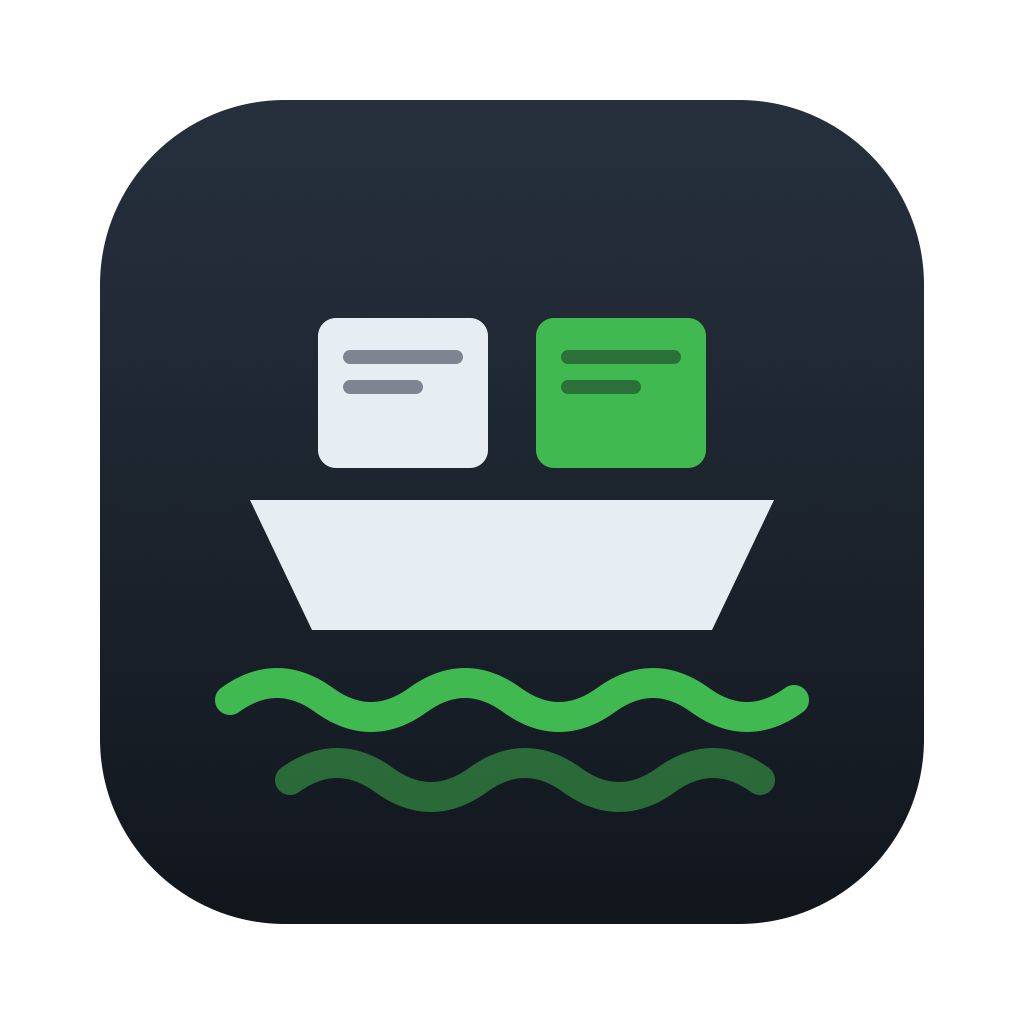
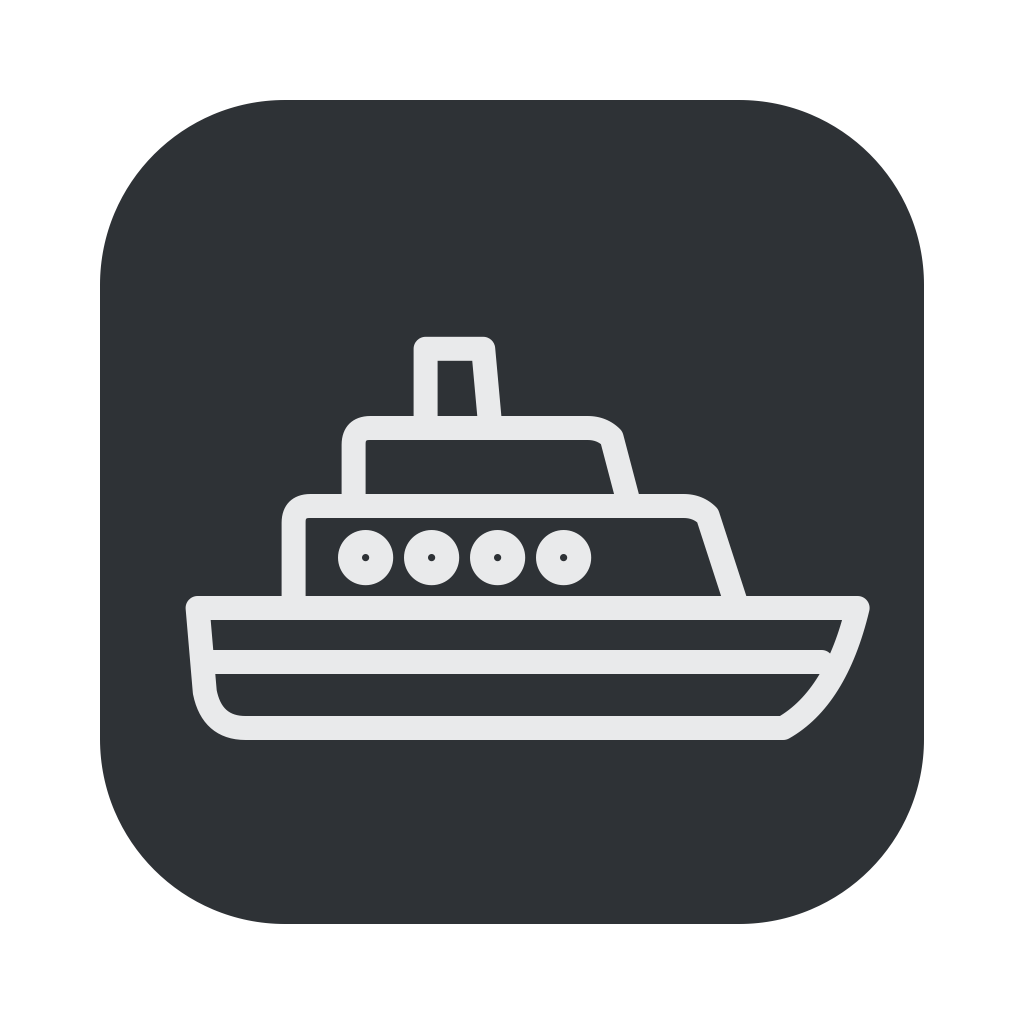
Hilfe-Menü mit Anleitungsfenster (EN/DE), App-Symbol F03

Changed region(s): [[0.0938, 0.3125, 0.9062, 0.9062]]

diff --git a/src/app.rs b/src/app.rs
@@ -12,9 +12,12 @@ use std::time::Duration;
 
 slint::include_modules!();
 
-/// (Code, Name in der eigenen Sprache, Tausendertrennzeichen)
-/// Neue Sprache: hier eintragen und translations/<code>/LC_MESSAGES/mediafiles-ferry.po anlegen.
-const LANGUAGES: [(&str, &str, char); 2] = [("en", "English", ','), ("de", "Deutsch", '.')];
+/// (Code, Name in der eigenen Sprache, Tausendertrennzeichen, Anleitung)
+/// Neue Sprache: hier eintragen, translations/<code>/LC_MESSAGES/mediafiles-ferry.po und docs/help/<code>.md anlegen.
+const LANGUAGES: [(&str, &str, char, &str); 2] = [
+    ("en", "English", ',', include_str!("../docs/help/en.md")),
+    ("de", "Deutsch", '.', include_str!("../docs/help/de.md")),
+];
 
 // Zeichenzahlen passend zur festen Fensterbreite (Metrics.window-width in ui/app.slint)
 const NAME_CHARS: usize = 20;
@@ -96,6 +99,46 @@ fn refresh(app: &AppWindow, lang: &str) {
     app.set_minutes_since_scan(minutes_since_scan());
 }
 
+/// Zerlegt die Anleitung in Blöcke: "# " = Untertitel, "## " = Abschnittsüberschrift, jeder Absatz ein eigener Block
+/// (StyledText kennt keine Überschriften und keinen Absatzabstand). Backticks fallen weg, damit alles in der App-Schrift bleibt.
+fn help_blocks(markdown: &str) -> (String, Vec<HelpBlock>) {
+    let mut subtitle = String::new();
+    let mut blocks = vec![];
+    let mut paragraph = String::new();
+    let flush = |paragraph: &mut String, blocks: &mut Vec<HelpBlock>| {
+        // "<Ordner>" wäre sonst ein HTML-Tag
+        let text = paragraph.trim().replace('`', "").replace('<', "‹").replace('>', "›");
+        if !text.is_empty() {
+            let body = slint::StyledText::from_markdown(&text).unwrap_or_else(|_| slint::StyledText::from_plain_text(&text));
+            blocks.push(HelpBlock { heading: "".into(), body });
+        }
+        paragraph.clear();
+    };
+    for line in markdown.lines() {
+        if let Some(t) = line.strip_prefix("# ") {
+            subtitle = t.to_uppercase();
+        } else if let Some(h) = line.strip_prefix("## ") {
+            flush(&mut paragraph, &mut blocks);
+            blocks.push(HelpBlock { heading: h.into(), body: Default::default() });
+        } else if line.trim().is_empty() {
+            flush(&mut paragraph, &mut blocks);
+        } else {
+            paragraph.push_str(line);
+            paragraph.push('\n');
+        }
+    }
+    flush(&mut paragraph, &mut blocks);
+    (subtitle, blocks)
+}
+
+fn update_help(help: &HelpWindow, s: &Settings) {
+    let markdown = LANGUAGES.iter().find(|l| l.0 == s.language).unwrap_or(&LANGUAGES[0]).3;
+    let (subtitle, blocks) = help_blocks(markdown);
+    help.set_subtitle(subtitle.into());
+    help.set_blocks(ModelRc::new(VecModel::from(blocks)));
+    help.set_dark(s.dark);
+}
+
 fn current_language(app: &AppWindow) -> String {
     app.get_language().to_string()
 }
@@ -117,13 +160,31 @@ fn main() -> Result<(), slint::PlatformError> {
     set_menus(&app, &settings);
     refresh(&app, &settings.language);
     let settings = Rc::new(RefCell::new(settings));
+    let help: Rc<RefCell<Option<HelpWindow>>> = Rc::default();
+
+    app.on_show_help({
+        let (settings, help) = (settings.clone(), help.clone());
+        move || {
+            let (settings, help) = (settings.clone(), help.clone());
+            slint::Timer::single_shot(Duration::ZERO, move || {
+                let mut help = help.borrow_mut();
+                if help.is_none() {
+                    *help = HelpWindow::new().ok();
+                }
+                if let Some(h) = help.as_ref() {
+                    update_help(h, &settings.borrow());
+                    let _ = h.show();
+                }
+            });
+        }
+    });
 
     // Änderungen aus dem Menü erst nach dem Klick ausführen: Sie benennen die Menüeinträge um,
     // und das während der Menü-Verarbeitung von macOS führte zum Absturz.
     app.on_select_language({
-        let (weak, settings) = (app.as_weak(), settings.clone());
+        let (weak, settings, help) = (app.as_weak(), settings.clone(), help.clone());
         move |index| {
-            let (weak, settings) = (weak.clone(), settings.clone());
+            let (weak, settings, help) = (weak.clone(), settings.clone(), help.clone());
             slint::Timer::single_shot(Duration::ZERO, move || {
                 let Some(app) = weak.upgrade() else { return };
                 let code = LANGUAGES.get(index as usize).map_or("en", |l| l.0);
@@ -132,21 +193,23 @@ fn main() -> Result<(), slint::PlatformError> {
                 settings.borrow_mut().language = code.to_string();
                 save_settings(&settings.borrow());
                 set_menus(&app, &settings.borrow());
+                help.borrow().iter().for_each(|h| update_help(h, &settings.borrow()));
                 refresh(&app, code);
             });
         }
     });
 
     app.on_select_dark({
-        let (weak, settings) = (app.as_weak(), settings.clone());
+        let (weak, settings, help) = (app.as_weak(), settings.clone(), help.clone());
         move |dark| {
-            let (weak, settings) = (weak.clone(), settings.clone());
+            let (weak, settings, help) = (weak.clone(), settings.clone(), help.clone());
             slint::Timer::single_shot(Duration::ZERO, move || {
                 let Some(app) = weak.upgrade() else { return };
                 app.set_dark(dark);
                 settings.borrow_mut().dark = dark;
                 save_settings(&settings.borrow());
                 set_menus(&app, &settings.borrow());
+                help.borrow().iter().for_each(|h| update_help(h, &settings.borrow()));
             });
         }
     });
@@ -208,6 +271,16 @@ mod tests {
         assert_eq!(super::group_digits(118842, "de"), "118.842");
         assert_eq!(super::group_digits(1234567, "en"), "1,234,567");
         assert_eq!(super::group_digits(999, "de"), "999");
+    }
+
+    #[test]
+    fn help_is_split_at_headings_in_every_language() {
+        for l in super::LANGUAGES {
+            let (subtitle, blocks) = super::help_blocks(l.3);
+            assert!(!subtitle.is_empty(), "{}", l.0);
+            assert!(blocks.iter().filter(|b| !b.heading.is_empty()).count() > 5, "{}", l.0);
+            assert!(!blocks[0].heading.is_empty(), "{}: beginnt mit einer Überschrift", l.0);
+        }
     }
 
     #[test]

diff --git a/docs/help/de.md b/docs/help/de.md
@@ -1,0 +1,78 @@
+# Anleitung
+
+## Was MediaFiles Ferry macht
+
+MediaFiles Ferry hält die Avid-Mediendateien (MXF) mehrerer Schnittplätze auf demselben Stand, auch wenn die Systeme nicht miteinander verbunden sind. Ferry vergleicht die Bestände, sammelt die fehlenden Dateien in einem Lieferordner und spielt diesen auf dem anderen System sicher ein.
+
+Ferry **löscht nie** Mediendateien und **überschreibt nie** eine vorhandene Mediendatei.
+
+*Vorschauversion:* Abgleichen, Sammeln und Einspielen kommen als Nächstes in die App. Bis dahin gibt es sie in der Kommandozeilen-Version.
+
+## So funktioniert es
+
+1. **Scannen** auf jedem System. Ferry erfasst jede MXF-Datei mit Prüfsumme und schreibt eine kleine *Manifest*-Datei – eine Liste der Dateien, keine Medien.
+2. **Austauschen:** Die Manifeste werden zwischen den Systemen ausgetauscht, z. B. per Mail oder USB-Stick.
+3. **Sammeln:** Jedes System sammelt die Dateien, die dem anderen fehlen, in einem Lieferordner.
+4. **Prüfen & einspielen:** Der Lieferordner wird auf dem anderen System geprüft und eingespielt.
+
+## Was Ferry erwartet
+
+Auf jedem Laufwerk, auch auf Netzlaufwerken:
+
+- `Avid MediaFiles/MXF/<Ordner>/` mit den `.mxf`-Mediendateien
+- die beiden Avid-Datenbankdateien `msmFMID.pmr` und `msmMMOB.mdb` in jedem Ordner
+- `Creating`-Ordner werden ignoriert
+
+Ordnernamen sind beliebig, z. B. `1`, `Avid8.1` oder `Mac Studio.1`.
+
+## Scannen
+
+Auf **Scannen** klicken. Ferry findet alle angeschlossenen Laufwerke mit `Avid MediaFiles/MXF` und berechnet für jede MXF-Datei eine Prüfsumme.
+
+- **Der erste Scan dauert**, weil jede Datei einmal gelesen wird.
+- **Weitere Scans sind schnell:** Ferry merkt sich die Prüfsummen und liest nur neue oder veränderte Dateien.
+- Wird die App während eines Scans geschlossen oder stürzt sie ab, geht nichts verloren – der nächste Scan macht dort weiter.
+
+Danach auf **Manifest sichern …** klicken und die Datei an das andere System schicken. Der Dateiname enthält Datum, Uhrzeit und Rechnername, z. B. `261101-1312_Mac Studio_Manifest.ferry`.
+
+## Wann wird was kopiert?
+
+Eine Datei gilt als **vorhanden**, wenn sie irgendwo auf dem anderen System mit gleichem Namen und gleicher Prüfsumme liegt – auf jedem Laufwerk, in jedem Ordner.
+
+- **Ordner auf beiden Seiten identisch:** Es passiert nichts.
+- **Ordner fehlt auf der anderen Seite:** Der ganze Ordner wird kopiert, samt Datenbank.
+- **Eine Seite hat zusätzliche Dateien:** Dateien und Datenbank der volleren Seite werden kopiert.
+- **Beide Seiten haben eigene Dateien:** Nur die Dateien werden kopiert, keine Datenbank – es entsteht die Aufgabe „Datenbank neu schreiben“.
+- **Gleicher Dateiname, anderer Inhalt:** Wird nicht kopiert – eine Aufgabe fordert zum Prüfen auf.
+
+**Grundregel:** Eine Datenbank wird nur mitgeliefert, wenn der Zielordner danach exakt dem Quellordner entspricht. Ferry löscht nie eine Datenbank.
+
+## Laufwerke und gleichnamige Ordner
+
+Laufwerke mit gleichem Namen werden automatisch einander zugeordnet, sonst fragt Ferry nach.
+
+Avid legt auf jedem System Ordner wie `1` an. Gibt es einen solchen Ordner auf beiden Seiten mit unterschiedlichen Dateien, entscheidest du:
+
+- **Zusammenführen:** Die Dateien kommen in denselben Ordner; danach muss die Datenbank neu geschrieben werden.
+- **Umbenennen:** Die Dateien kommen in einen neuen Ordner wie `261031_MacStudio_1`.
+
+## Aufgabenliste
+
+Was Ferry nicht selbst erledigen darf, landet in der Aufgabenliste (auch in `Aufgaben.txt` jeder Lieferung). In eckigen Klammern steht das System, auf dem die Aufgabe zu erledigen ist.
+
+- **Datenbank neu schreiben** – im Ordner liegen Dateien, die die Datenbank nicht kennt. In Media Composer neu aufbauen lassen.
+- **Ordner aufteilen (rebalancen)** – der Ordner hat mehr als 5000 Dateien; Avid wird langsam. Dateien auf mehrere Ordner verteilen.
+- **Gleicher Name, anderer Inhalt** – zwei verschiedene Dateien heißen gleich. Prüfen, welche richtig ist.
+- **Doppelte Dateien** – dieselbe Datei liegt in mehreren Ordnern. Kein Fehler, kostet aber Platz.
+
+## Von Hand einspielen
+
+1. Media Composer schließen.
+2. Für jeden Ordner der Lieferung auf dem Laufwerk `Avid MediaFiles/MXF/<Ordner>` öffnen (fehlt er, neu anlegen).
+3. **Nur den Inhalt des Lieferordners hineinkopieren – niemals den ganzen Ordner auf einen bestehenden Ordner ziehen!** Finder und Explorer ersetzen ihn sonst samt allen Mediendateien.
+4. Fragt das System, ob `.mxf`-Dateien ersetzt werden sollen: **nicht ersetzen**, abbrechen und prüfen.
+5. `msmFMID.pmr` und `msmMMOB.mdb` nur in den Ordnern ersetzen, die in `Aufgaben.txt` stehen.
+
+## Einstellungen
+
+Im Menü **Einstellungen** wählst du die Sprache und die Darstellung (dunkel oder hell).

diff --git a/docs/help/en.md b/docs/help/en.md
@@ -1,0 +1,78 @@
+# User Guide
+
+## What MediaFiles Ferry does
+
+MediaFiles Ferry keeps the Avid media files (MXF) of several edit systems in sync, even when the systems are not connected. Ferry compares what each system has, collects the missing files into a delivery folder and safely imports that folder on the other system.
+
+Ferry **never deletes** media files and **never overwrites** an existing media file.
+
+*Preview version:* comparing, collecting and importing are coming to the app next. Until then they are available in the command-line version.
+
+## How it works
+
+1. **Scan** each system. Ferry records every MXF file with a checksum and writes a small *manifest* file – a list of files, no media.
+2. **Exchange** the manifests between the systems, e.g. by e-mail or USB stick.
+3. **Collect:** each system collects the files the other one is missing into a delivery folder.
+4. **Verify & import** the delivery folder on the other system.
+
+## What Ferry expects
+
+On every drive, including network drives:
+
+- `Avid MediaFiles/MXF/<folder>/` with the `.mxf` media files
+- the two Avid database files `msmFMID.pmr` and `msmMMOB.mdb` in each folder
+- `Creating` folders are ignored
+
+Folder names can be anything, e.g. `1`, `Avid8.1` or `Mac Studio.1`.
+
+## Scan
+
+Click **Scan**. Ferry finds all connected drives with `Avid MediaFiles/MXF` and computes a checksum for every MXF file.
+
+- **The first scan takes a while**, because every file is read once.
+- **Later scans are fast:** Ferry remembers the checksums and only reads new or changed files.
+- If the app is closed or crashes during a scan, nothing is lost – the next scan continues where it stopped.
+
+Then click **Save manifest…** and send the file to the other system. The file name contains date, time and computer name, e.g. `261101-1312_Mac Studio_Manifest.ferry`.
+
+## When is something copied?
+
+A file counts as **present** if it exists anywhere on the other system with the same name and checksum – on any drive, in any folder.
+
+- **Folder identical on both sides:** nothing happens.
+- **Folder missing on the other side:** the whole folder is copied, including its database.
+- **One side has additional files:** the files and the database of the fuller side are copied.
+- **Both sides have files of their own:** only the files are copied, no database – a task “rebuild database” is added.
+- **Same file name, different content:** not copied – a task asks you to check it.
+
+**Rule of thumb:** a database is only delivered if the target folder ends up exactly like the source folder. Ferry never deletes a database.
+
+## Drives and folders with the same name
+
+Drives with the same name are matched automatically; otherwise Ferry asks you to assign them.
+
+Avid creates folders like `1` on every system. If such a folder exists on both sides with different files, you choose:
+
+- **Merge:** the files go into the same folder; the database must be rebuilt afterwards.
+- **Rename:** the files go into a new folder like `261031_MacStudio_1`.
+
+## Task list
+
+Everything Ferry must not do itself ends up in the task list (also in `Aufgaben.txt` of each delivery). The system on which the task has to be done is shown in brackets.
+
+- **Rebuild database** – the folder contains files the database does not know. Let Media Composer rebuild it.
+- **Rebalance folder** – the folder has more than 5000 files; Avid gets slow. Spread the files over several folders.
+- **Same name, different content** – two different files share a name. Check which one is right.
+- **Duplicate files** – the same file exists in several folders. Not an error, but it costs space.
+
+## Importing by hand
+
+1. Quit Media Composer.
+2. For each folder of the delivery, open `Avid MediaFiles/MXF/<folder>` on the drive (create it if missing).
+3. **Copy only the contents of the delivery folder – never drag the whole folder onto an existing folder!** Finder and Explorer would replace it including all media files.
+4. If you are asked to replace `.mxf` files: **don’t** – cancel and check.
+5. Replace `msmFMID.pmr` and `msmMMOB.mdb` only in the folders listed in `Aufgaben.txt`.
+
+## Settings
+
+In the **Settings** menu you can choose the language and the appearance (dark or light).

diff --git a/README.md b/README.md
@@ -37,7 +37,8 @@ cargo test
 Die Oberfläche ist auf Englisch geschrieben (`@tr("…")` in `ui/app.slint`). Eine neue Sprache:
 
 1. `translations/<code>/LC_MESSAGES/mediafiles-ferry.po` anlegen (Vorlage: `translations/de/…`, oder mit `slint-tr-extractor ui/*.slint` erzeugen)
-2. die Sprache in `LANGUAGES` in `src/app.rs` eintragen
+2. die Anleitung als `docs/help/<code>.md` anlegen (Vorlage: `docs/help/en.md`)
+3. die Sprache in `LANGUAGES` in `src/app.rs` eintragen
 
 ## Lizenz
 

diff --git a/docs/Benutzerhandbuch.md b/docs/Benutzerhandbuch.md
@@ -169,6 +169,8 @@ Im Menü **Settings** (Einstellungen):
 - **Language / Sprache:** English, Deutsch
 - **Appearance / Darstellung:** Dunkel (Standard) oder Hell
 
+Im Menü **Help** (Hilfe) öffnet sich die Anleitung in einem eigenen Fenster.
+
 ## 8. Häufige Fragen
 
 **Werden Mediendateien über das Internet übertragen?**
